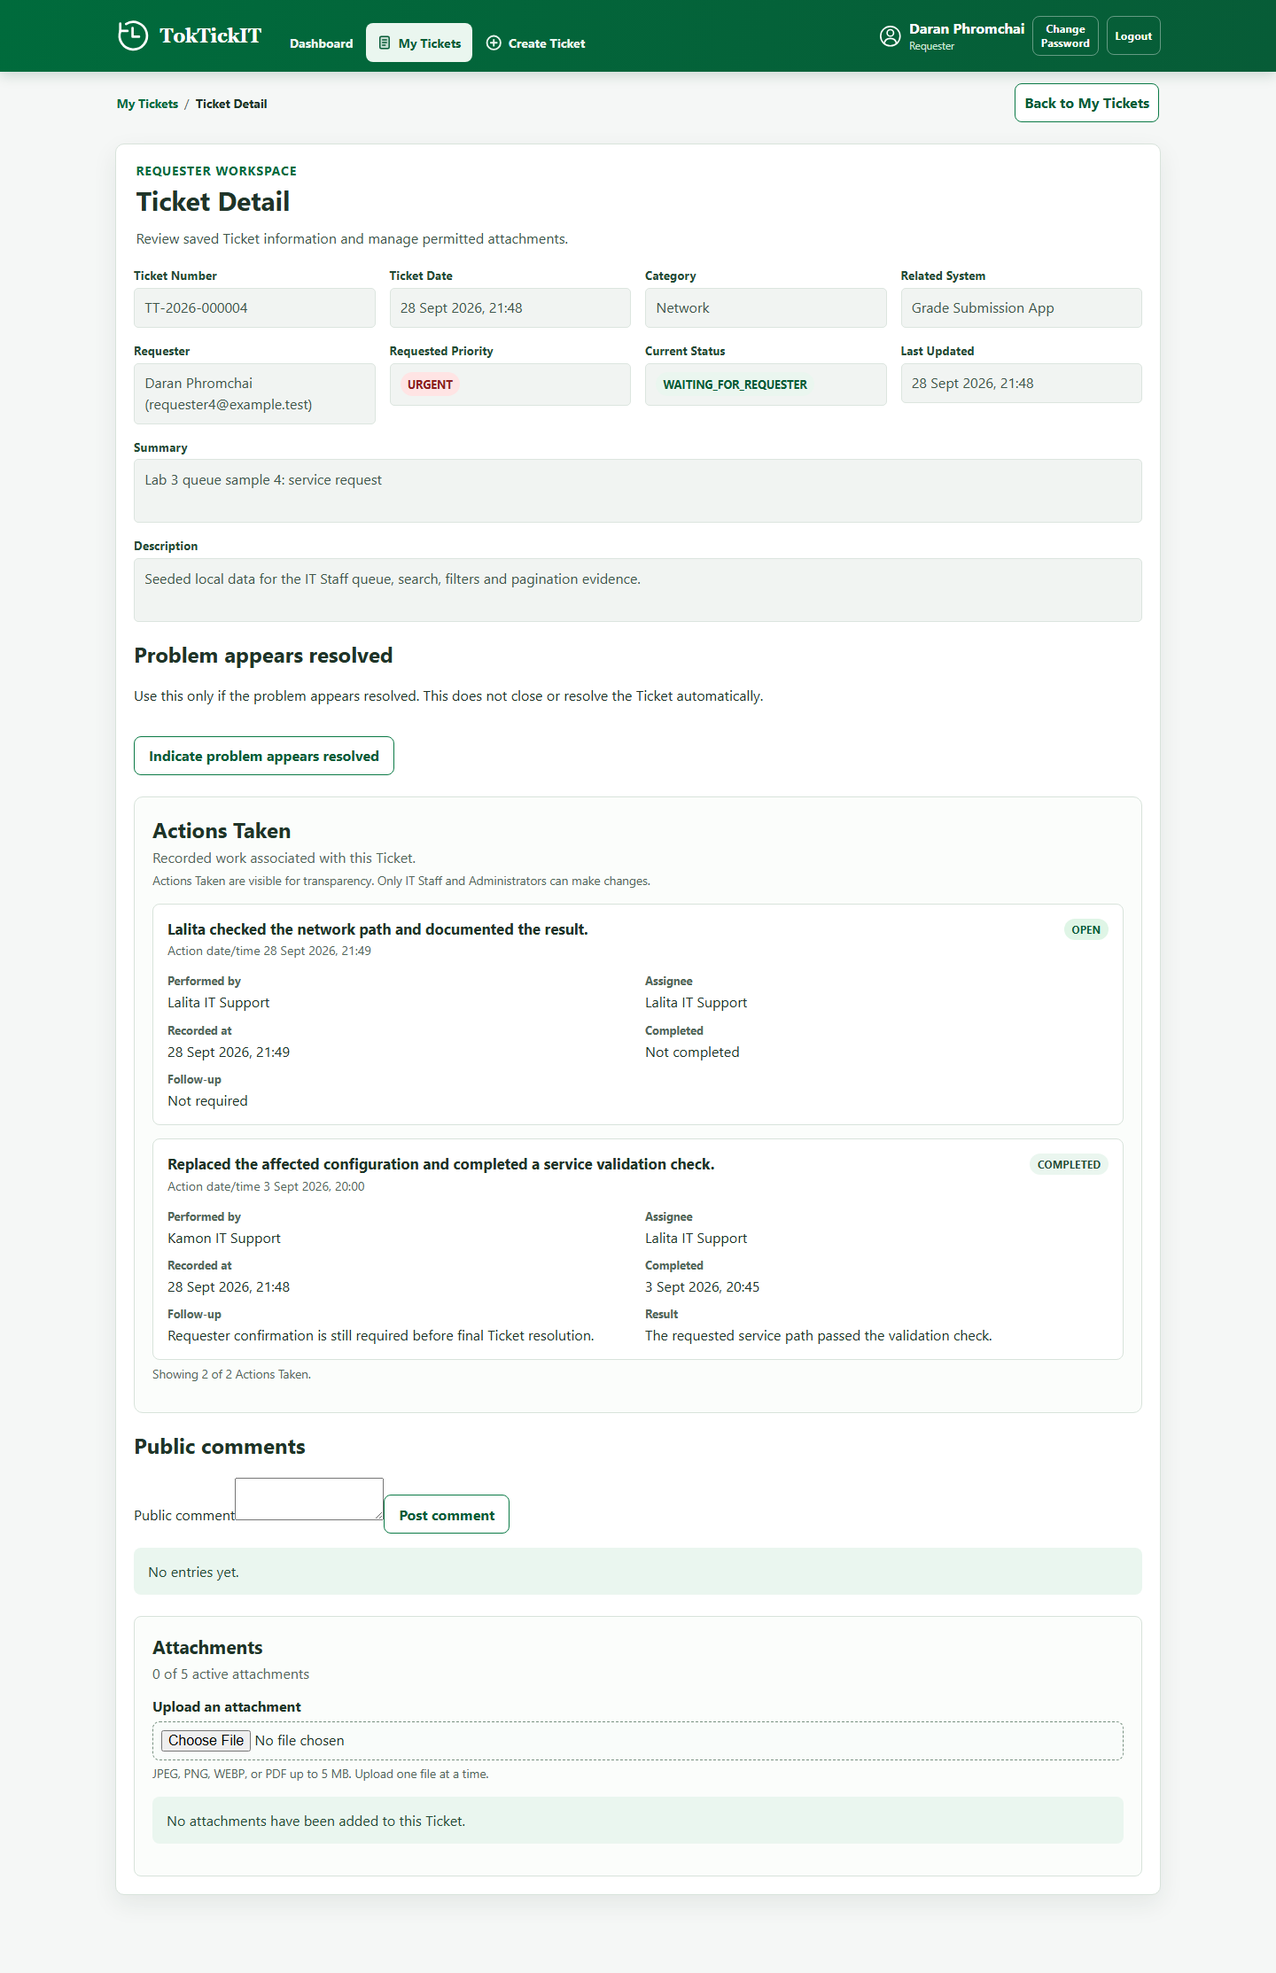
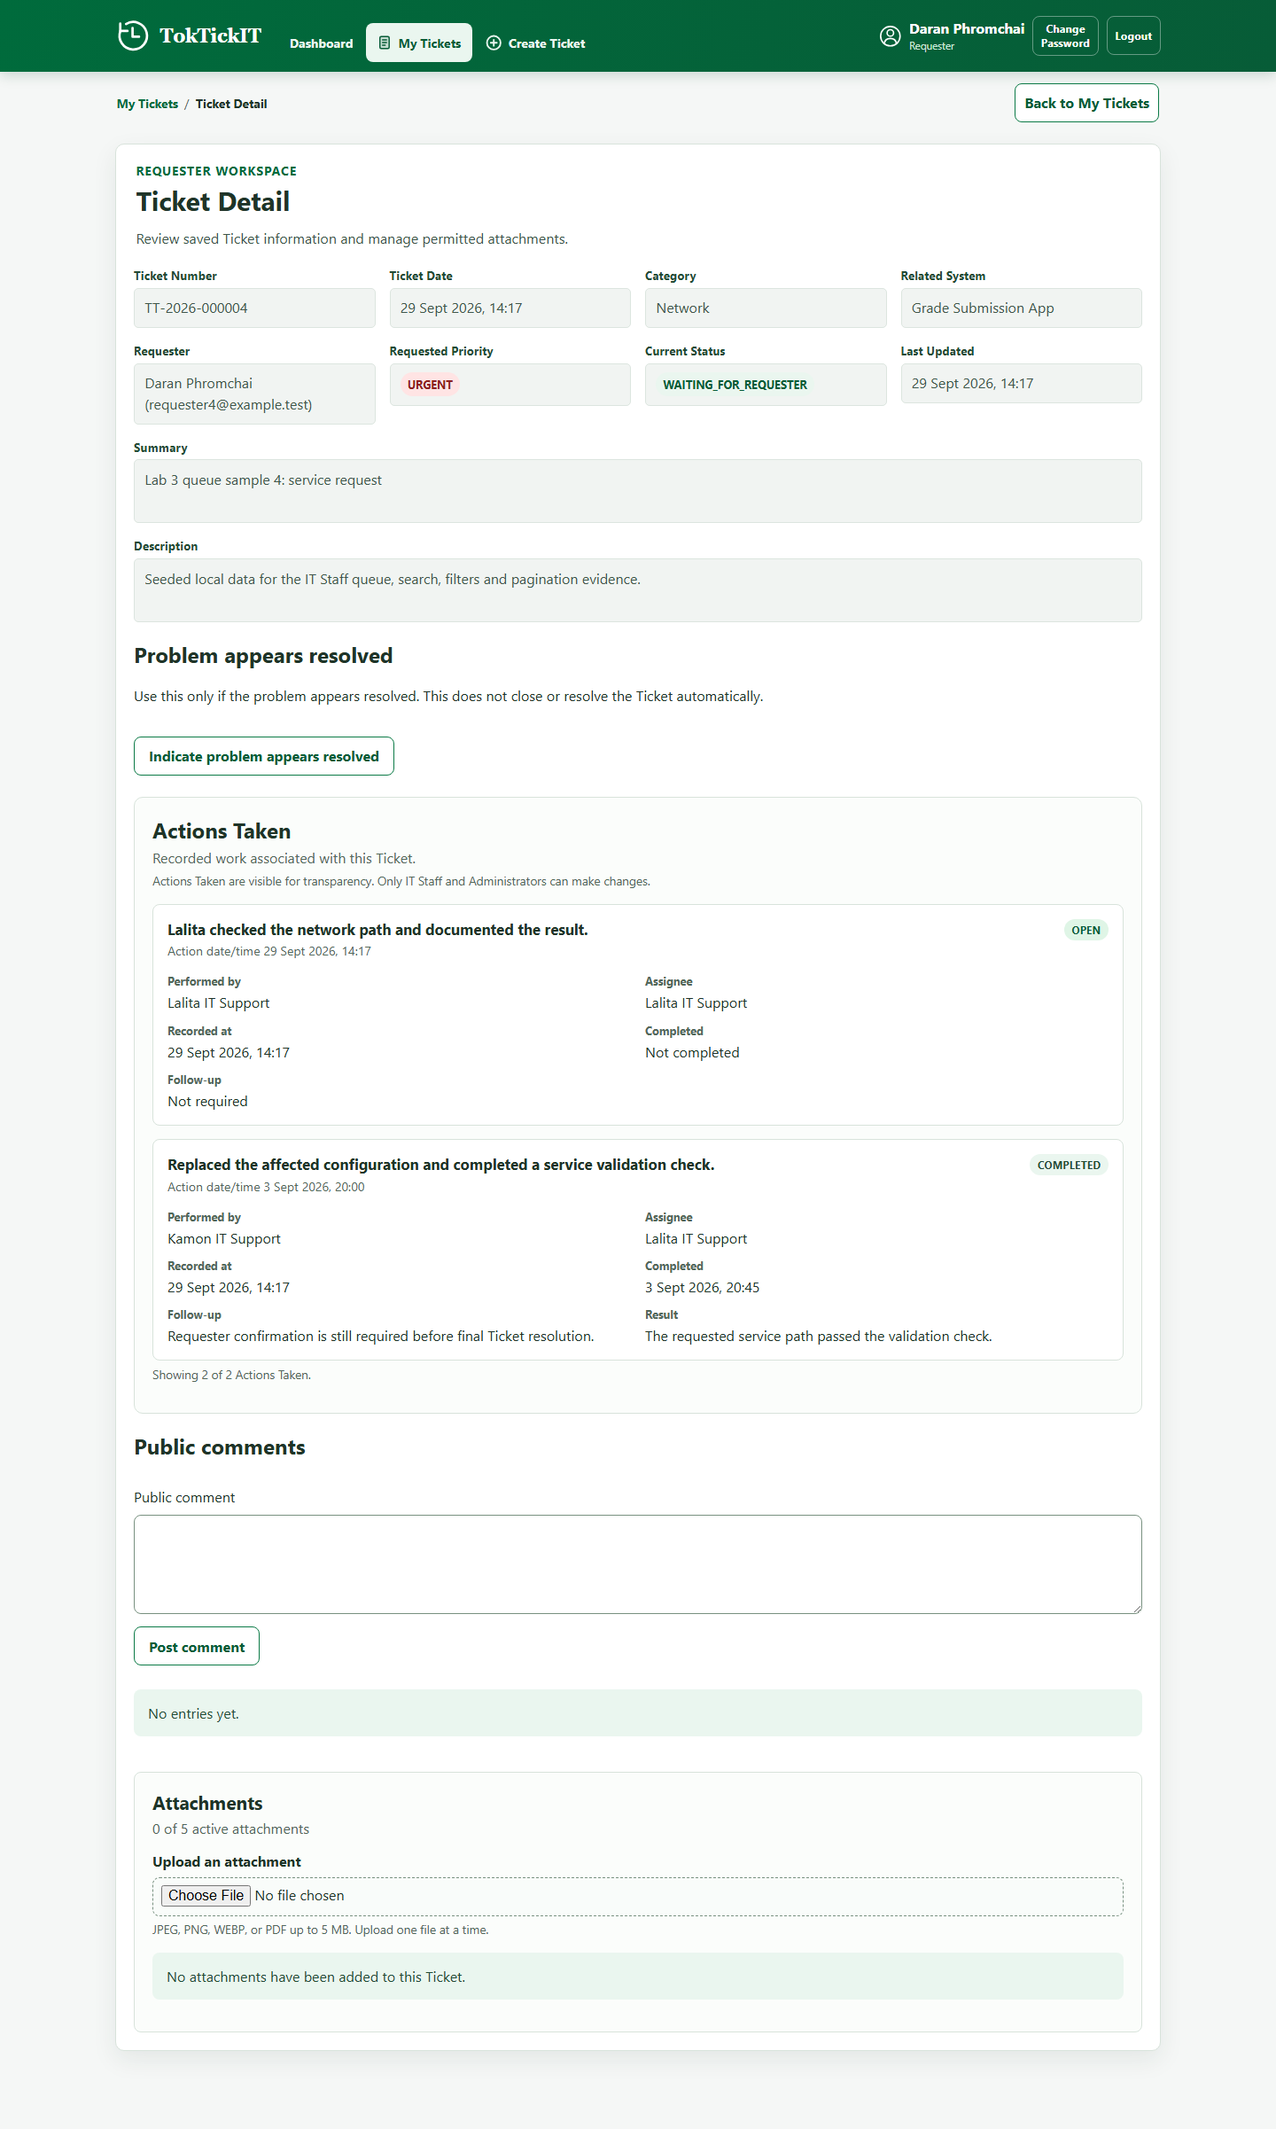
docs(lab4): record review correction verification and refresh screenshots

diff --git a/docs/lab-04/tests.md b/docs/lab-04/tests.md
@@ -12,18 +12,18 @@ Status: Initial plan created before implementation; results are updated as each 
 | API-06 | API | AC-07 | Staff metric calculations, recent ordering and role restrictions | `server/tests/lab-04/dashboards.api.test.ts`, `server/tests/lab-04/dashboard-filters.unit.test.ts` | Passed on feature branch, 2026-09-27 (dashboard API: 7 tests shared with API-05; filter unit: 2 tests) |
 | UNIT-01 | Unit | AC-01, AC-02, AC-05 | Validate Action status/assignee/follow-up transitions, terminal immutability, completion-after-reopen and pure resolution-gate decisions | `server/tests/lab-04/actions-taken.unit.test.ts`, `server/tests/lab-04/ticket-workflow.unit.test.ts` | Passed on feature branch, 2026-09-27 (5 Action and 4 workflow unit tests) |
 | INT-01 | Integration | AC-08 | Migration preserves Lab 3 records; repeat seed is idempotent | `server/tests/lab-04/migration-actions.integration.test.ts` | Passed on feature branch, 2026-09-28 (1 disposable-schema test) |
-| INT-02 | Integration/Recovery | AC-08 | Restore a captured logical backup of all application tables and attachment bytes to a separate disposable schema; compare manifest row counts, hashes and sampled Ticket relationships | `server/tests/lab-04/migration-recovery.integration.test.ts` | Passed on feature branch, 2026-09-28 (1 opt-in local-schema test). This is application-data logical recovery, not a PostgreSQL physical backup |
+| INT-02 | Integration/Recovery | AC-08 | Restore a captured logical backup of all application tables and attachment bytes to a separate disposable schema; compare every restored row, manifest counts, attachment hashes and Ticket relationships | `server/tests/lab-04/migration-recovery.integration.test.ts` | Passed after review correction, 2026-09-29 (1 opt-in local-schema test). This is application-data logical recovery, not a PostgreSQL physical backup |
 | SEED-01 | Unit/Regression | AC-08 | Keep the Action fixture key out of the Action row and avoid duplicate rows on a repeated seed | `server/tests/lab-04/seed-data.unit.test.ts` | Passed on feature branch, 2026-09-28 (1 test) |
 | UI-01 | UI | AC-01, AC-03 | Action list, create/edit form, required-field validation, assignee-only completion, paginated retrieval, accurate totals after creation, and requester read-only view | `client/tests/lab-04/ActionsTaken.test.tsx` | Passed on feature branch, 2026-09-27 (6 tests in file) |
 | UI-02 | UI | AC-05 | Show actionable resolution-gate feedback while preserving the stale-version reload instruction | `client/tests/lab-04/TicketWorkflow.test.tsx` | Passed on feature branch, 2026-09-27 (2 tests in file) |
 | UI-03 | UI | AC-06 | Requester cards, zero state and drill-down links | `client/tests/lab-04/RequesterDashboard.test.tsx` | Passed on feature branch, 2026-09-27 (2 tests) |
 | UI-04 | UI | AC-07 | Staff cards, recent rows, safe failure and drill-down links | `client/tests/lab-04/StaffDashboard.test.tsx` | Passed on feature branch, 2026-09-27 (2 tests) |
-| STYLE-01 | UI style | AC-09 | Zen Green focus, rendered interactive targets at least 44px high, responsive 4/2/1 card layout, wrapped Action text and textual validation; page-level overflow is covered by RESP-01 | `client/tests/lab-04/ZenGreenLab4.styles.test.tsx`, `e2e/lab-04/responsive.spec.ts` | Earlier CSS-string unit and responsive runs passed on 2026-09-28; rendered-target E2E rerun pending after review correction |
-| RESP-01 | Responsive | AC-09 | Dashboard, Ticket Detail and Actions Taken work at 1440x900, 820x1180 and 390x844 without page-level overflow | `e2e/lab-04/responsive.spec.ts` | Passed on feature branch, 2026-09-28 (3 browser tests; 12 full-page screenshots) |
+| STYLE-01 | UI style | AC-09 | Zen Green focus, rendered interactive targets at least 44px high, responsive 4/2/1 card layout, wrapped Action text and textual validation; page-level overflow is covered by RESP-01 | `client/tests/lab-04/ZenGreenLab4.styles.test.tsx`, `e2e/lab-04/responsive.spec.ts` | Passed after review correction, 2026-09-29 (client: 39/39; responsive browser: 3/3 with rendered-target assertions) |
+| RESP-01 | Responsive | AC-09 | Dashboard, Ticket Detail and Actions Taken work at 1440x900, 820x1180 and 390x844 without page-level overflow | `e2e/lab-04/responsive.spec.ts` | Passed after review correction, 2026-09-29 (3 browser tests; 12 refreshed full-page screenshots) |
 | PERF-01 | Performance smoke | AC-06, AC-07 | Seed a representative dashboard dataset and confirm each dashboard endpoint has p95 <= 500 ms across 20 warm local requests; record machine/database context as non-portable smoke evidence | `server/tests/lab-04/dashboard-performance.smoke.test.ts` | Passed on feature branch, 2026-09-28 (2 opt-in local-schema tests); exact p95 values not yet copied into this document |
-| E2E-01 | E2E | AC-01-05 | Staff adds/edits multiple actions; requester sees read-only; resolve/close lifecycle | `e2e/lab-04/actions-taken-flow.spec.ts` | Passed on feature branch, 2026-09-28 (2 browser tests; included in post-style 19-test rerun) |
-| E2E-02 | E2E | AC-06-07 | Requester/Staff dashboards calculate, drill down and respect roles at three viewports | `e2e/lab-04/dashboards.spec.ts` | Passed on feature branch, 2026-09-28 (3 browser tests; included in post-style 19-test rerun) |
-| REG-01 | Regression | AC-09 | Run Labs 1-3 server/client/auth/attachment/comment/note/admin tests | existing suites | Passed on feature branch, 2026-09-28 (server: 25 files / 130 tests passed, 5 files / 8 opt-in tests skipped; client: 12 files / 39 tests passed; browser: 19 tests passed after CSS update). Final `main` verification remains pending |
+| E2E-01 | E2E | AC-01-05 | Staff adds/edits multiple actions; requester sees read-only; resolve/close lifecycle | `e2e/lab-04/actions-taken-flow.spec.ts` | Passed after review correction, 2026-09-29 (included in full 19-test browser run) |
+| E2E-02 | E2E | AC-06-07 | Requester/Staff dashboards calculate, drill down and respect roles at three viewports | `e2e/lab-04/dashboards.spec.ts` | Passed after review correction, 2026-09-29 (included in full 19-test browser run) |
+| REG-01 | Regression | AC-09 | Run Labs 1-3 server/client/auth/attachment/comment/note/admin tests | existing suites | Passed after review correction, 2026-09-29 (server: 25 files / 130 tests passed, 5 files / 8 opt-in tests skipped; client: 12 files / 39 tests passed; browser: 19 tests passed). Final `main` verification remains pending |
 
 ## Execution commands
 
@@ -64,21 +64,21 @@ The developer ran `npm --prefix server test` on the same feature branch after th
 
 The Lab 4 migration integration case was then added to verify that a populated Lab 3 Ticket retains its requester, owner, priority, attachment-removal attribution, public comment and private note after the Actions Taken migration. It also checks that the existing Ticket gains no invented Action and that repeating the local seed creates exactly three fixture Actions. The developer ran the opt-in local-only `npm --prefix server run test:lab4-migration` command and supplied output showing **1 test passed in 1 file**; the test itself took 8.3 seconds. This run reset only the dedicated `lab4_migration_test` schema.
 
-The developer ran `npm --prefix client test -- tests/lab-04/ZenGreenLab4.styles.test.tsx` after commit `5e2289f` and supplied output showing **3 tests passed in 1 file**. Those historical cases inspected CSS rule strings, which could not prove a computed 44px touch target. The review correction moves that assertion into `e2e/lab-04/responsive.spec.ts`, where Chromium measures every rendered button, link, input, select and textarea on the captured Dashboard/Detail screens, the traversed Staff Queue/My Tickets screens and the Administrator Create User form; checkbox controls use the enclosing label as their target. A focused browser comparison of the original `2193d09` CSS against the corrected working tree measured the Ticket filter input and workflow select at **43.1875px before** and **44px after** at 390px viewport width. The post-correction full E2E run remains to be recorded.
+The developer ran `npm --prefix client test -- tests/lab-04/ZenGreenLab4.styles.test.tsx` after commit `5e2289f` and supplied output showing **3 tests passed in 1 file**. Those historical cases inspected CSS rule strings, which could not prove a computed 44px touch target. The review correction moved that assertion into `e2e/lab-04/responsive.spec.ts`, where Chromium measures every rendered button, link, input, select and textarea on the captured Dashboard/Detail screens, the traversed Staff Queue/My Tickets screens and the Administrator Create User form; checkbox controls use the enclosing label as their target. A focused browser comparison of the original `2193d09` CSS against the corrected working tree measured the Ticket filter input and workflow select at **43.1875px before** and **44px after** at 390px viewport width. The updated three-viewport browser suite passed **3/3**, and the full browser suite passed **19/19** on 2026-09-29.
 
 The developer ran the opt-in `npm --prefix server run test:lab4-performance` command and supplied output showing **2 tests passed in 1 file**. Both authenticated dashboard endpoints met the test's p95-at-most-500-ms assertion across twenty measured local requests after five warm-up requests. The supplied excerpt did not include the individual p95 values or the printed machine/database context, so neither is invented here; this is non-portable local smoke evidence, not a production latency guarantee. The command reset only the dedicated `lab4_dashboard_perf_test` schema.
 
 The developer ran `npm --prefix server test -- tests/lab-04/actions-taken.api.test.ts` after commit `7f0355e` and supplied output showing **10 tests passed in 1 file**. The new case records distinct Actions by two authenticated Staff on one Ticket, checks both session-derived performers and audit actors, and confirms the coordinating owner is unchanged in the API fixture. The earlier browser case separately showed a second Staff member creating and editing work while the Ticket owner remained unchanged.
 
-The developer ran `npm --prefix server run test:lab4-recovery` after commit `7b96498` and supplied output showing **1 test passed in 1 file**. The test writes a fixture-backed logical snapshot of every application table and a separate attachment-byte backup, restores those into a different disposable schema and directory, then compares row-count manifest entries, sampled Ticket ownership/requester fields, soft-removal attribution, related records, the attachment SHA-256 and sequence usability. Only `lab4_recovery_source_test` and `lab4_recovery_target_test` were reset by the guarded runner. This is not evidence of native PostgreSQL `pg_dump`/`pg_restore`, physical backups, point-in-time recovery, or production-data restoration.
+The developer ran `npm --prefix server run test:lab4-recovery` after commit `7b96498` and supplied output showing **1 test passed in 1 file**. Following review, the test was strengthened to compare the complete JSON-normalized snapshot of every restored application table, not only row counts and sampled Ticket relationships. The developer reran it on 2026-09-29 and reported **1 test passed in 1 file**. The attachment SHA-256 and primary-key sequence checks remain. Only `lab4_recovery_source_test` and `lab4_recovery_target_test` were reset by the guarded runner. This is not evidence of native PostgreSQL `pg_dump`/`pg_restore`, physical backups, point-in-time recovery, or production-data restoration.
 
-The developer reran `npm --prefix server test` on `feature/lab4-regression-e2e-release` after the multi-Staff and recovery additions. Vitest reported **25 files passed, 5 skipped; 130 tests passed, 8 skipped**. The intentionally skipped suites are the opt-in Lab 3 migration (2), Lab 3 Administrator integration (2), Lab 4 migration (1), Lab 4 recovery (1), and Lab 4 dashboard performance (2). The three Lab 4 opt-in suites were executed separately with passing results above. The full client suite and browser E2E should be rerun after the UI style change before release.
+The developer reran `npm --prefix server test` on `feature/lab4-regression-e2e-release` after the review correction on 2026-09-29. Vitest reported **25 files passed, 5 skipped; 130 tests passed, 8 skipped**. The intentionally skipped suites are the opt-in Lab 3 migration (2), Lab 3 Administrator integration (2), Lab 4 migration (1), Lab 4 recovery (1), and Lab 4 dashboard performance (2). The three Lab 4 opt-in suites were executed separately with passing results above.
 
-The developer reran `npm --prefix client test` after the Lab 4 accessibility-style change and supplied output showing **12 files passed; 39 tests passed**. This includes the three new Zen Green/accessibility cases alongside the existing Lab 2, Lab 3, Actions Taken, dashboard and workflow UI tests. The browser E2E suite still needs its post-style-change rerun before the feature-branch evidence is final.
+The developer reran `npm --prefix client test` after the review correction on 2026-09-29 and supplied output showing **12 files passed; 39 tests passed**. This includes the Zen Green/accessibility cases alongside the existing Lab 2, Lab 3, Actions Taken, dashboard and workflow UI tests.
 
-The developer reran the unfiltered `npm run e2e` command after the UI style change and supplied output showing **19 of 19 browser tests passed in 58.1 seconds**. This replaces the earlier pre-style browser result as the current feature-branch evidence. The run covers Lab 2/3 regression flows together with Lab 4 Action, dashboard and responsive cases, and the Playwright HTML report remains under `artifacts/lab-03/playwright-report/`. Final merged-`main` verification remains a separate step.
+The developer reran the unfiltered `npm run e2e` command after the review correction on 2026-09-29 and supplied output showing **19 of 19 browser tests passed in 54.7 seconds**. A separate focused responsive run passed **3 of 3** desktop/tablet/mobile cases in 20.9 seconds, after a mobile-only check passed **1 of 1** in 20.1 seconds. The full run covers Lab 2/3 regression flows together with Lab 4 Action, dashboard and responsive cases; its twelve current responsive screenshots were copied to `docs/lab-04/evidence/`. The Playwright HTML report remains under `artifacts/lab-03/playwright-report/`. Final merged-`main` verification remains a separate step.
 
-The developer then ran `npm --prefix client run build` on the same feature branch. TypeScript and Vite completed successfully: **37 modules transformed**, with `dist/index.html` and the production CSS/JS assets emitted. This verifies the client production build after the accessibility-style change; the supplied Vite output reported completion in **617 ms**. The server TypeScript build also passed locally after the recovery-test implementation.
+The developer reran `npm run build --prefix client` after the 2026-09-29 review correction. TypeScript and Vite completed successfully: **37 modules transformed**, with `dist/index.html`, `dist/assets/index-DVcNDGKj.css` and `dist/assets/index-bJ-Moc6u.js` emitted; Vite reported completion in **655 ms**. The client TypeScript typecheck and server TypeScript build also passed locally after the correction.
 
 All twelve full-page responsive screenshots from the passing Lab 4 browser run were visually inspected and copied under [`docs/lab-04/evidence/`](evidence/) for repository review. The three viewport-by-role-and-screen mappings are linked from [`ui-spec.md`](ui-spec.md). They show the populated dashboard and Ticket/Action states; unchecked loading, validation and conflict checklist items are not claimed as screenshot evidence.
 

diff --git a/docs/lab-04/ui-spec.md b/docs/lab-04/ui-spec.md
@@ -28,16 +28,16 @@ Desktop is >=992px, tablet 768-991px and mobile <768px. Metric cards flow 4/2/1 
 
 ## Visual and accessibility checklist
 
-- [x] Dashboard, Ticket Detail and Actions Taken inspected at desktop/tablet/mobile using the twelve full-page images below; the original browser run asserted no page-level horizontal overflow.
-- [ ] Rerun the updated browser checks after the review correction to verify rendered interactive targets are at least 44px high (including the enclosing label for checkboxes) and refresh screenshots if the layout changed.
+- [x] Dashboard, Ticket Detail and Actions Taken inspected at desktop/tablet/mobile using the twelve refreshed full-page images below; the 2026-09-29 browser run asserted no page-level horizontal overflow.
+- [x] Updated browser checks passed at all three viewports and measured rendered interactive targets at least 44px high (including the enclosing label for checkboxes) on Dashboard, Detail, Queue/My Tickets and Administrator Create User screens.
 - [ ] Dashboard loading, empty, forbidden and safe-failure states inspected.
 - [ ] Action create/edit submitting, validation, follow-up, conflict and read-only states inspected.
 - [ ] Keyboard focus order, labels, errors, non-colour badges and drill-down actions checked.
 - [ ] Long action text/notes and narrow screens have no clipping, overlap or horizontal overflow.
 
-### Captured responsive evidence (2026-09-28)
+### Captured responsive evidence (2026-09-29)
 
-The following images were copied from the 2026-09-28 passing Playwright run into this repository so a reviewer can inspect them without the local test artifacts. They precede the later 44px and discussion-layout correction; a post-correction run is pending. The screenshots show the populated dashboard and Ticket/Action detail states, not every loading, validation or conflict state in the unchecked checklist items above.
+The following images were copied from the 2026-09-29 passing post-correction Playwright run into this repository so a reviewer can inspect them without the local test artifacts. The screenshots show the populated dashboard and Ticket/Action detail states, including the corrected full-width discussion fields on mobile, not every loading, validation or conflict state in the unchecked checklist items above.
 
 The responsive run uses the shared Lab 4 E2E seed. When the full suite runs in sequence, `actions-taken-flow.spec.ts` may add an OPEN Action to `TT-2026-000004` before the responsive screenshots are captured. An isolated responsive run starts from the seed and may omit that additional Action; both states remain valid, but screenshots from different runs should not be treated as identical fixtures.
 
